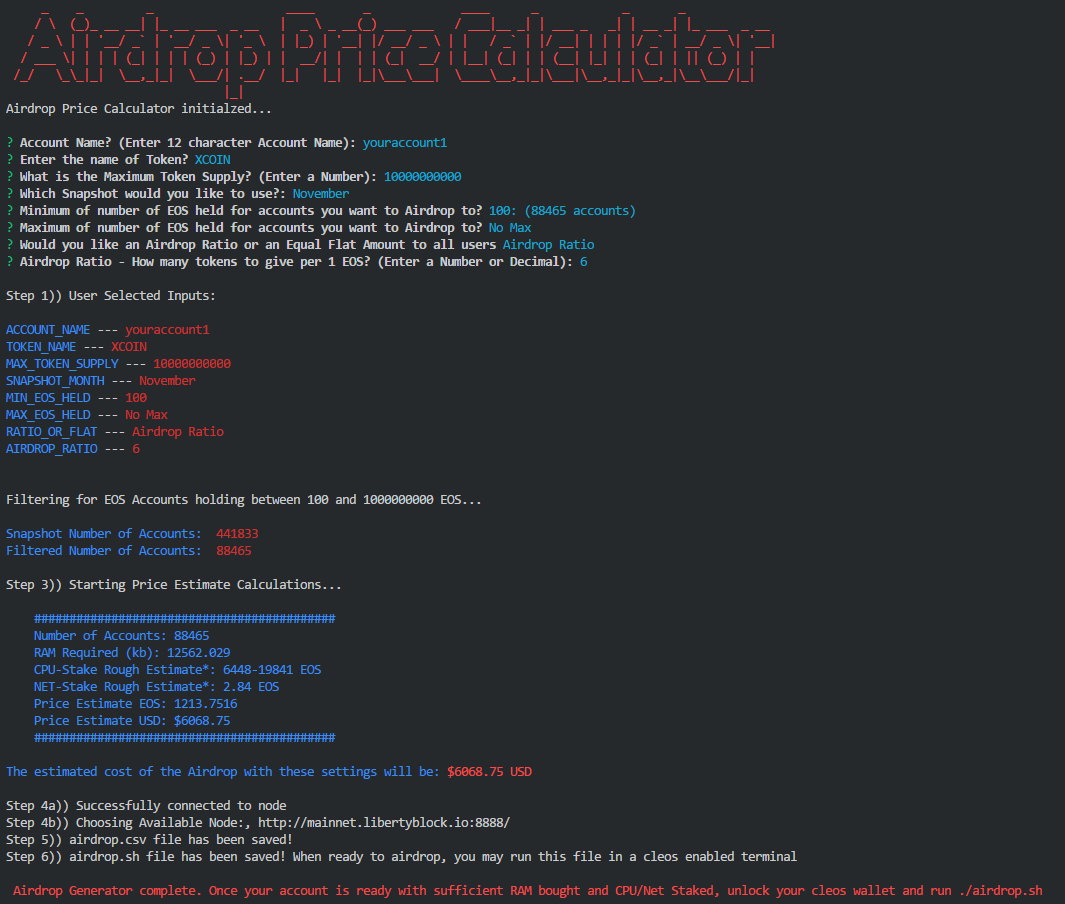
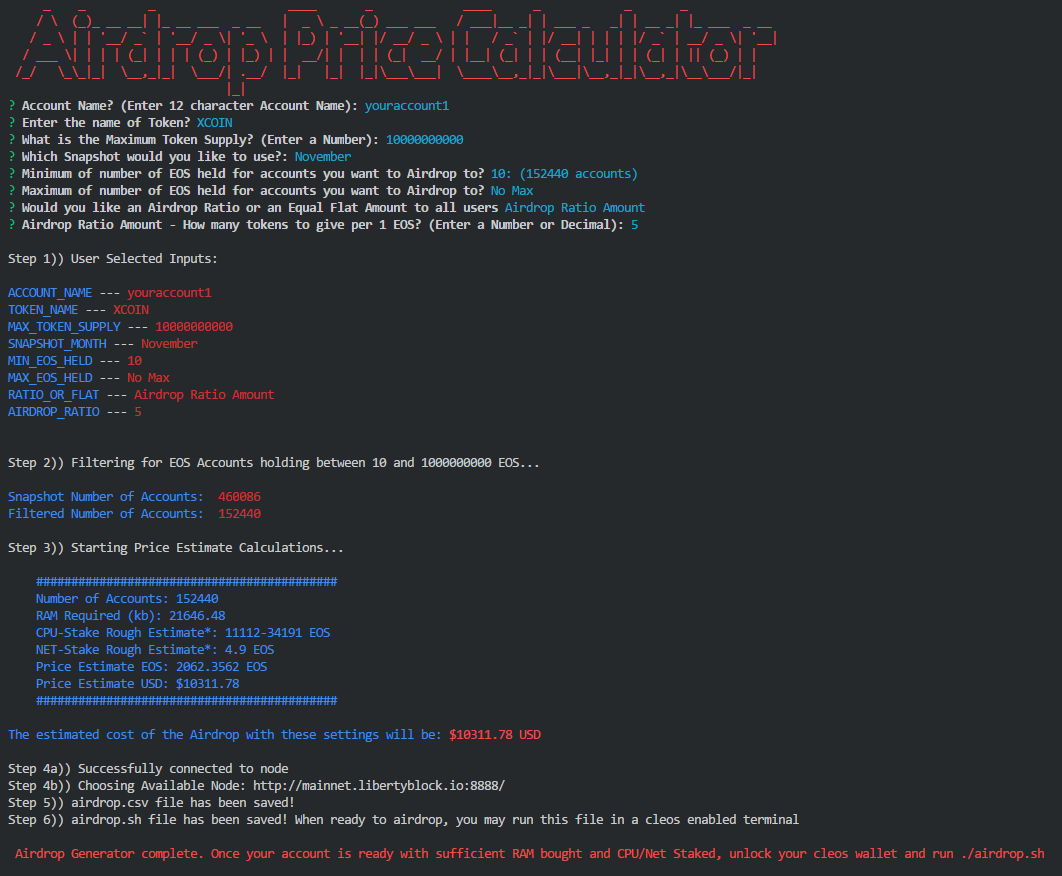
Updated Screenshots

Changed region(s): [[0.0, 0.0, 0.9944, 1.0]]

diff --git a/airdrop/app/src/components/home.js b/airdrop/app/src/components/home.js
@@ -5,92 +5,157 @@ import loader from './loading.gif';
 import $ from "jquery";
 import axios from 'axios';
 
-function handleClick(e) {
-    e.preventDefault();
-    $('.formInner').css('display', 'block');
-    $('.loader').fadeIn();
-    $('.detailInner').fadeIn('5000');
-    $('.loader').fadeOut();
-    console.log('submit button clicked')
+// function handleClick(e) {
+//     e.preventDefault();
+//     $('.formInner').css('display', 'block');
+//     $('.loader').fadeIn();
+//     $('.detailInner').fadeIn('5000');
+//     $('.loader').fadeOut();
+//     console.log('submit button clicked')
 
-    var accountName = $('#accountName').val();
-    var tokenName = $('#tokenName').val();
-    var tokenSupply = $('#tokenSupply').val();
-    var snapshot = $('#snapshot').val();
-    var minEOS = $('#minEOS').val();
-    var maxEOS = $('#maxEOS').val();
-    var option = $("input[name='option']:checked").val()
-    var ratio = $('#ratio').val();
-    var flat = $('#flat').val();
+//     var accountName = $('#accountName').val();
+//     var tokenName = $('#tokenName').val();
+//     var tokenSupply = $('#tokenSupply').val();
+//     var snapshot = $('#snapshot').val();
+//     var minEOS = $('#minEOS').val();
+//     var maxEOS = $('#maxEOS').val();
+//     var option = $("input[name='option']:checked").val()
+//     var ratio = $('#ratio').val();
+//     var flat = $('#flat').val();
 
-    var userParams = {
-        // Need this to populate from React Front End forms (sample dummy data below)
-        'ACCOUNT_NAME': accountName,
-        'TOKEN_NAME': tokenName,
-        'MAX_TOKEN_SUPPLY': tokenSupply,
-        'SNAPSHOT_MONTH': snapshot,
-        'MIN_EOS_HELD': minEOS,
-        'MAX_EOS_HELD': maxEOS,
-        'RATIO_OR_FLAT': 'Airdrop '+option+' Amount',
-        'AIRDROP_RATIO': ratio,
-        'AIRDROP_FLAT': flat,
-    }
-    console.log(userParams);
+//     var userParams = {
+//         // Need this to populate from React Front End forms (sample dummy data below)
+//         'ACCOUNT_NAME': accountName,
+//         'TOKEN_NAME': tokenName,
+//         'MAX_TOKEN_SUPPLY': tokenSupply,
+//         'SNAPSHOT_MONTH': snapshot,
+//         'MIN_EOS_HELD': minEOS,
+//         'MAX_EOS_HELD': maxEOS,
+//         'RATIO_OR_FLAT': 'Airdrop '+option+' Amount',
+//         'AIRDROP_RATIO': ratio,
+//         'AIRDROP_FLAT': flat,
+//     }
+//     console.log('userParams: ', userParams);
  
-    var dummydata = {
-        'ACCOUNT_NAME': 'junglefoxfox',
-        'TOKEN_NAME': 'AIRSIX',
-        'MAX_TOKEN_SUPPLY': '1000000',
-        'SNAPSHOT_MONTH': 'November',
-        'MIN_EOS_HELD': '100',
-        'MAX_EOS_HELD': '9999999',
-        'RATIO_OR_FLAT': 'Airdrop Flat Amount',
-        'AIRDROP_RATIO': '5',
-        'AIRDROP_FLAT': '0',
-    };
+//     // var dummydata = {
+//     //     'ACCOUNT_NAME': 'junglefoxfox',
+//     //     'TOKEN_NAME': 'AIRSIX',
+//     //     'MAX_TOKEN_SUPPLY': '1000000',
+//     //     'SNAPSHOT_MONTH': 'November',
+//     //     'MIN_EOS_HELD': '100',
+//     //     'MAX_EOS_HELD': '9999999',
+//     //     'RATIO_OR_FLAT': 'Airdrop Flat Amount',
+//     //     'AIRDROP_RATIO': '5',
+//     //     'AIRDROP_FLAT': '0',
+//     // };
 
 
-    axios.post('http://localhost:9001/get_estimate', dummydata)
-    .then((res) => {
-        console.log('Client POST Res :', res);
-        var PRICE_ESTIMATE = res.data
-        console.log('PRICE_ESTIMATE', PRICE_ESTIMATE)
+//     axios.post('http://localhost:9001/get_estimate', userParams)
+//     .then((res) => {
+//         console.log('Client POST Res :', res);
+//         var PRICE_ESTIMATE = res.data
+//         console.log('PRICE_ESTIMATE', PRICE_ESTIMATE)
 
-        // Sample Response Below: 
-        // PRICE_ESTIMATE = { numberOfAccounts: 88871,
-        //     ramRequiredKb: 12619.681,
-        //     cpuStakeEstimate_EOSLow: 6478,
-        //     cpuStakeEstimate_EOSHigh: 19933,
-        //     netStakeEstimate_EOS: 2.85,
-        //     priceEstimate_Eos: 1210.4415,
-        //     priceEstimate_Usd: 6052.2 }
+//         // Sample Response Below: 
+//         // PRICE_ESTIMATE = { numberOfAccounts: 88871,
+//         //     ramRequiredKb: 12619.681,
+//         //     cpuStakeEstimate_EOSLow: 6478,
+//         //     cpuStakeEstimate_EOSHigh: 19933,
+//         //     netStakeEstimate_EOS: 2.85,
+//         //     priceEstimate_Eos: 1210.4415,
+//         //     priceEstimate_Usd: 6052.2 }
 
-        // Need to pull ^ into response form, with possibly some sort of "Loading..." message during the async Submit button call
+//         // Need to pull ^ into response form, with possibly some sort of "Loading..." message during the async Submit button call
 
-    })
-    .catch((err) => {
-       console.log('axios POST err: ', err);
-    })
+//     })
+//     .catch((err) => {
+//        console.log('axios POST err: ', err);
+//     })
     
-}
+// }
 
 function downloadButton(e) {
     console.log('downloadButton clicked')
-    var userParams = {
+    // var userParams = {
+    //     'ACCOUNT_NAME': '',
+    //     'TOKEN_NAME': '',
+    //     'MAX_TOKEN_SUPPLY': '',
+    //     'SNAPSHOT_MONTH': '',
+    //     'MIN_EOS_HELD': '',
+    //     'MAX_EOS_HELD': '',
+    //     'RATIO_OR_FLAT': '',
+    //     'AIRDROP_RATIO': '',
+    //     'AIRDROP_FLAT': '',
+    // }      
+}
+
+class Home extends Component{
+    constructor(props) {
+        super(props)
+        this.state = {
         'ACCOUNT_NAME': '',
         'TOKEN_NAME': '',
-        'MAX_TOKEN_SUPPLY': '',
+        'MAX_TOKEN_SUPPLY': '999111222',
         'SNAPSHOT_MONTH': '',
         'MIN_EOS_HELD': '',
         'MAX_EOS_HELD': '',
         'RATIO_OR_FLAT': '',
         'AIRDROP_RATIO': '',
         'AIRDROP_FLAT': '',
-    }      
-}
+        }
 
-class Home extends Component{
+        this.handleClick = this.handleClick.bind(this);
+    }
+
+    
+    handleClick (e) {
+        e.preventDefault();
+        $('.formInner').css('display', 'block');
+        $('.loader').fadeIn();
+        $('.detailInner').fadeIn('5000');
+        $('.loader').fadeOut();
+        console.log('submit button clicked')
+    
+        var accountName = $('#accountName').val();
+        var tokenName = $('#tokenName').val();
+        var tokenSupply = $('#tokenSupply').val();
+        var snapshot = $('#snapshot').val();
+        var minEOS = $('#minEOS').val();
+        var maxEOS = $('#maxEOS').val();
+        var option = $("input[name='option']:checked").val()
+        var ratio = $('#ratio').val();
+        var flat = $('#flat').val();
+    
+        var userParams = {
+            // Need this to populate from React Front End forms (sample dummy data below)
+            'ACCOUNT_NAME': accountName,
+            'TOKEN_NAME': tokenName,
+            'MAX_TOKEN_SUPPLY': tokenSupply,
+            'SNAPSHOT_MONTH': snapshot,
+            'MIN_EOS_HELD': minEOS,
+            'MAX_EOS_HELD': maxEOS,
+            'RATIO_OR_FLAT': 'Airdrop '+option+' Amount',
+            'AIRDROP_RATIO': ratio,
+            'AIRDROP_FLAT': flat,
+        }
+        console.log('userParams: ', userParams);
+     
+    
+        axios.post('http://localhost:9001/get_estimate', userParams)
+        .then((res) => {
+            console.log('Client POST Res :', res);
+            var PRICE_ESTIMATE = res.data
+            console.log('PRICE_ESTIMATE', PRICE_ESTIMATE)
+        })
+        .catch((err) => {
+           console.log('axios POST err: ', err);
+        })
+        
+    }
+    
+
     render(){
+        console.log("state MAX_TOKEN_SUPPLY", this.state.MAX_TOKEN_SUPPLY)
        
         return(
             <div className="HomePage">
@@ -107,7 +172,9 @@ class Home extends Component{
                                     <label>Token Name</label>
                                     <input type="text" id="tokenName" maxlength='7' />
                                     <label>Max token supply</label>
-                                    <input type="text" id="tokenSupply" placeholder="1000000" />
+                                    {/* <input type="text" id="tokenSupply" placeholder="1000000" /> */}
+                                    {/* <input type="text" id="tokenSupply" value={this.state.MAX_TOKEN_SUPPLY} onChange={(e) => this.setState('MAX_TOKEN_SUPPLY': e.target.value)}/> */}
+                                    <input type="text" id="tokenSupply" value={this.state.MAX_TOKEN_SUPPLY} onChange={(e) => this.setState({MAX_TOKEN_SUPPLY: e.target.value})}/>
                                     <label>Snapshot month</label>
                                     <select id="snapshot">
                                         {/* <option value="">Select</option> */}
@@ -132,7 +199,7 @@ class Home extends Component{
                                     </select>
                                     <label>Max EOS held</label>
                                     <select id="maxEOS">
-                                        <option value="">No Max</option>
+                                        <option value="No Max">No Max</option>
                                         <option value="0">0</option>
                                         <option value="1">1</option>
                                         <option value="10">10</option>
@@ -151,7 +218,9 @@ class Home extends Component{
                                     <input type="number" id="ratio" />
                                     <label>Airdrop flat</label>
                                     <input type="number" className="fields" id="flat" />
-                                    <input type="submit" className="submitButton actives" onClick={handleClick} />
+                                    {/* <input type="submit" className="submitButton actives" onClick={handleClick} /> */}
+                                    <input type="submit" className="submitButton actives" onClick={this.handleClick} />
+                                    {/* <input type="submit" className="submitButton actives" onClick={(e)=> {this.handleClick} /> */}
                                 </form>
                             </div>
                         </div>

diff --git a/airdrop/cli.js b/airdrop/cli.js
@@ -20,7 +20,7 @@ const init = () => {
         )
     );
 
-  console.log('Airdrop Price Calculator initialzed...\n')
+  // console.log('Airdrop Price Calculator initialzed...\n')
 };
 
 const askQuestions = async () => {
@@ -85,14 +85,14 @@ const askQuestions = async () => {
       name: "RATIO_OR_FLAT",
       type: "list",
       message: "Would you like an Airdrop Ratio or an Equal Flat Amount to all users",
-      choices: ["Airdrop Ratio", "Airdrop Flat Amount"],
+      choices: ["Airdrop Ratio Amount", "Airdrop Flat Amount"],
     },
   ];
   const questions4_ratio = [
     {
       name: "AIRDROP_RATIO",
       type: "input",
-      message: "Airdrop Ratio - How many tokens to give per 1 EOS? (Enter a Number or Decimal):"
+      message: "Airdrop Ratio Amount - How many tokens to give per 1 EOS? (Enter a Number or Decimal):"
     },
   ];
   const questions4_flat = [
@@ -124,7 +124,7 @@ const askQuestions = async () => {
   // console.log('answers2_min', answers2_min);
   
   var answers3 = await inquirer.prompt(questions3); // Asking Questions 3 and 4 (Ratio/Flat)
-  if (answers3.RATIO_OR_FLAT === 'Airdrop Ratio') {
+  if (answers3.RATIO_OR_FLAT === 'Airdrop Ratio Amount') {
     var answers4 = await inquirer.prompt(questions4_ratio);
   } else if (answers3.RATIO_OR_FLAT === 'Airdrop Flat Amount') {
     var answers4 = await inquirer.prompt(questions4_flat);
@@ -219,7 +219,7 @@ const snapshotFilter = (snapshot, minEosHeld, maxEosHeld) => {
     minEosHeld = 0;
     // console.log('No Minimum EOS Value')
   }
-  console.log(`Filtering for EOS Accounts holding between ${minEosHeld} and ${maxEosHeld} EOS...\n`);
+  console.log(`Step 2)) Filtering for EOS Accounts holding between ${minEosHeld} and ${maxEosHeld} EOS...\n`);
   var filtered = [];
   for (let i=0; i<snapshotCopy.length; i++) {
     if ((parseInt(snapshotCopy[i]['total_eos']) >= minEosHeld) && (parseInt(snapshotCopy[i]['total_eos']) <= maxEosHeld)) {
@@ -311,7 +311,7 @@ const successPrice = (priceEstimate) => {
     RAM Required (kb): ${priceEstimate.ramRequiredKb}     
     CPU-Stake Rough Estimate*: ${priceEstimate.cpuStakeEstimate_EOSLow}-${priceEstimate.cpuStakeEstimate_EOSHigh} EOS   
     NET-Stake Rough Estimate*: ${priceEstimate.netStakeEstimate_EOS} EOS    
-    Price Estimate EOS: ${priceEstimate.priceEstimate_Eos} EOS    
+    Price Estimate EOS: ${priceEstimate.priceEstimate_Eos} EOS   
     Price Estimate USD: $${priceEstimate.priceEstimate_Usd}    
     ###########################################` + '\n'))
 
@@ -385,7 +385,7 @@ const nodeSelector = async (snapshotMonth) => {
 
 const formatOutput = (filtered, airdropParams) => {
   var arr = []; 
-  if (airdropParams.ratioOrFlat === 'Airdrop Ratio') {
+  if (airdropParams.ratioOrFlat === 'Airdrop Ratio Amount') {
     airdropParams.airdropRatio = parseInt(airdropParams.airdropRatio);
     airdropParams.airdropFlat = 0;
   } else if (airdropParams.ratioOrFlat === 'Airdrop Flat Amount') {
@@ -588,8 +588,8 @@ const run = async () => {
   successPrice(PRICE_ESTIMATE);
   
   /* Airdrop Portion */
-  const NODE_URL = 'http://mainnet.libertyblock.io:8888/';
-  // const NODE_URL = await nodeSelector(SNAPSHOT_MONTH) || 'http://mainnet.libertyblock.io:8888/';
+  // const NODE_URL = 'http://mainnet.libertyblock.io:8888/';
+  const NODE_URL = await nodeSelector(SNAPSHOT_MONTH) || 'http://mainnet.libertyblock.io:8888/';
   var AIRDROP_PARAMS = {
     'accountName': ACCOUNT_NAME,
     'tokenName': TOKEN_NAME,

diff --git a/airdrop/README.md b/airdrop/README.md
@@ -35,12 +35,12 @@ node run.js
 - Run through the series of questions to input your airdrop parameters
 - You will be given the option to choose which Snapshot you want to use, along with options to filter between EOS Accounts holding different token amounts
 - You may airdrop X Ratio of your tokens to users based on their EOS Holdings, or you may airdrop a flat amount to all users.
-- A full demo of the questionare and price estimate process is shown below: 
+- A full demo of the questionnaire and price estimate process is shown below: 
 
 ![ratio_or_flat.PNG](https://github.com/Byzantine-Works/EOS-Wallet-Integrations/blob/master/airdrop/screenshots/ratio_or_flat.PNG?raw=true)
 
 
-- Airdrop Generator will tell you the estiamted resource cost to run the airdrop. 
+- Airdrop Generator will tell you the estimated resource cost to run the airdrop. 
 
 ![price_estimate.PNG](https://github.com/Byzantine-Works/EOS-Wallet-Integrations/blob/master/airdrop/screenshots/price_estimate.PNG?raw=true)
 
